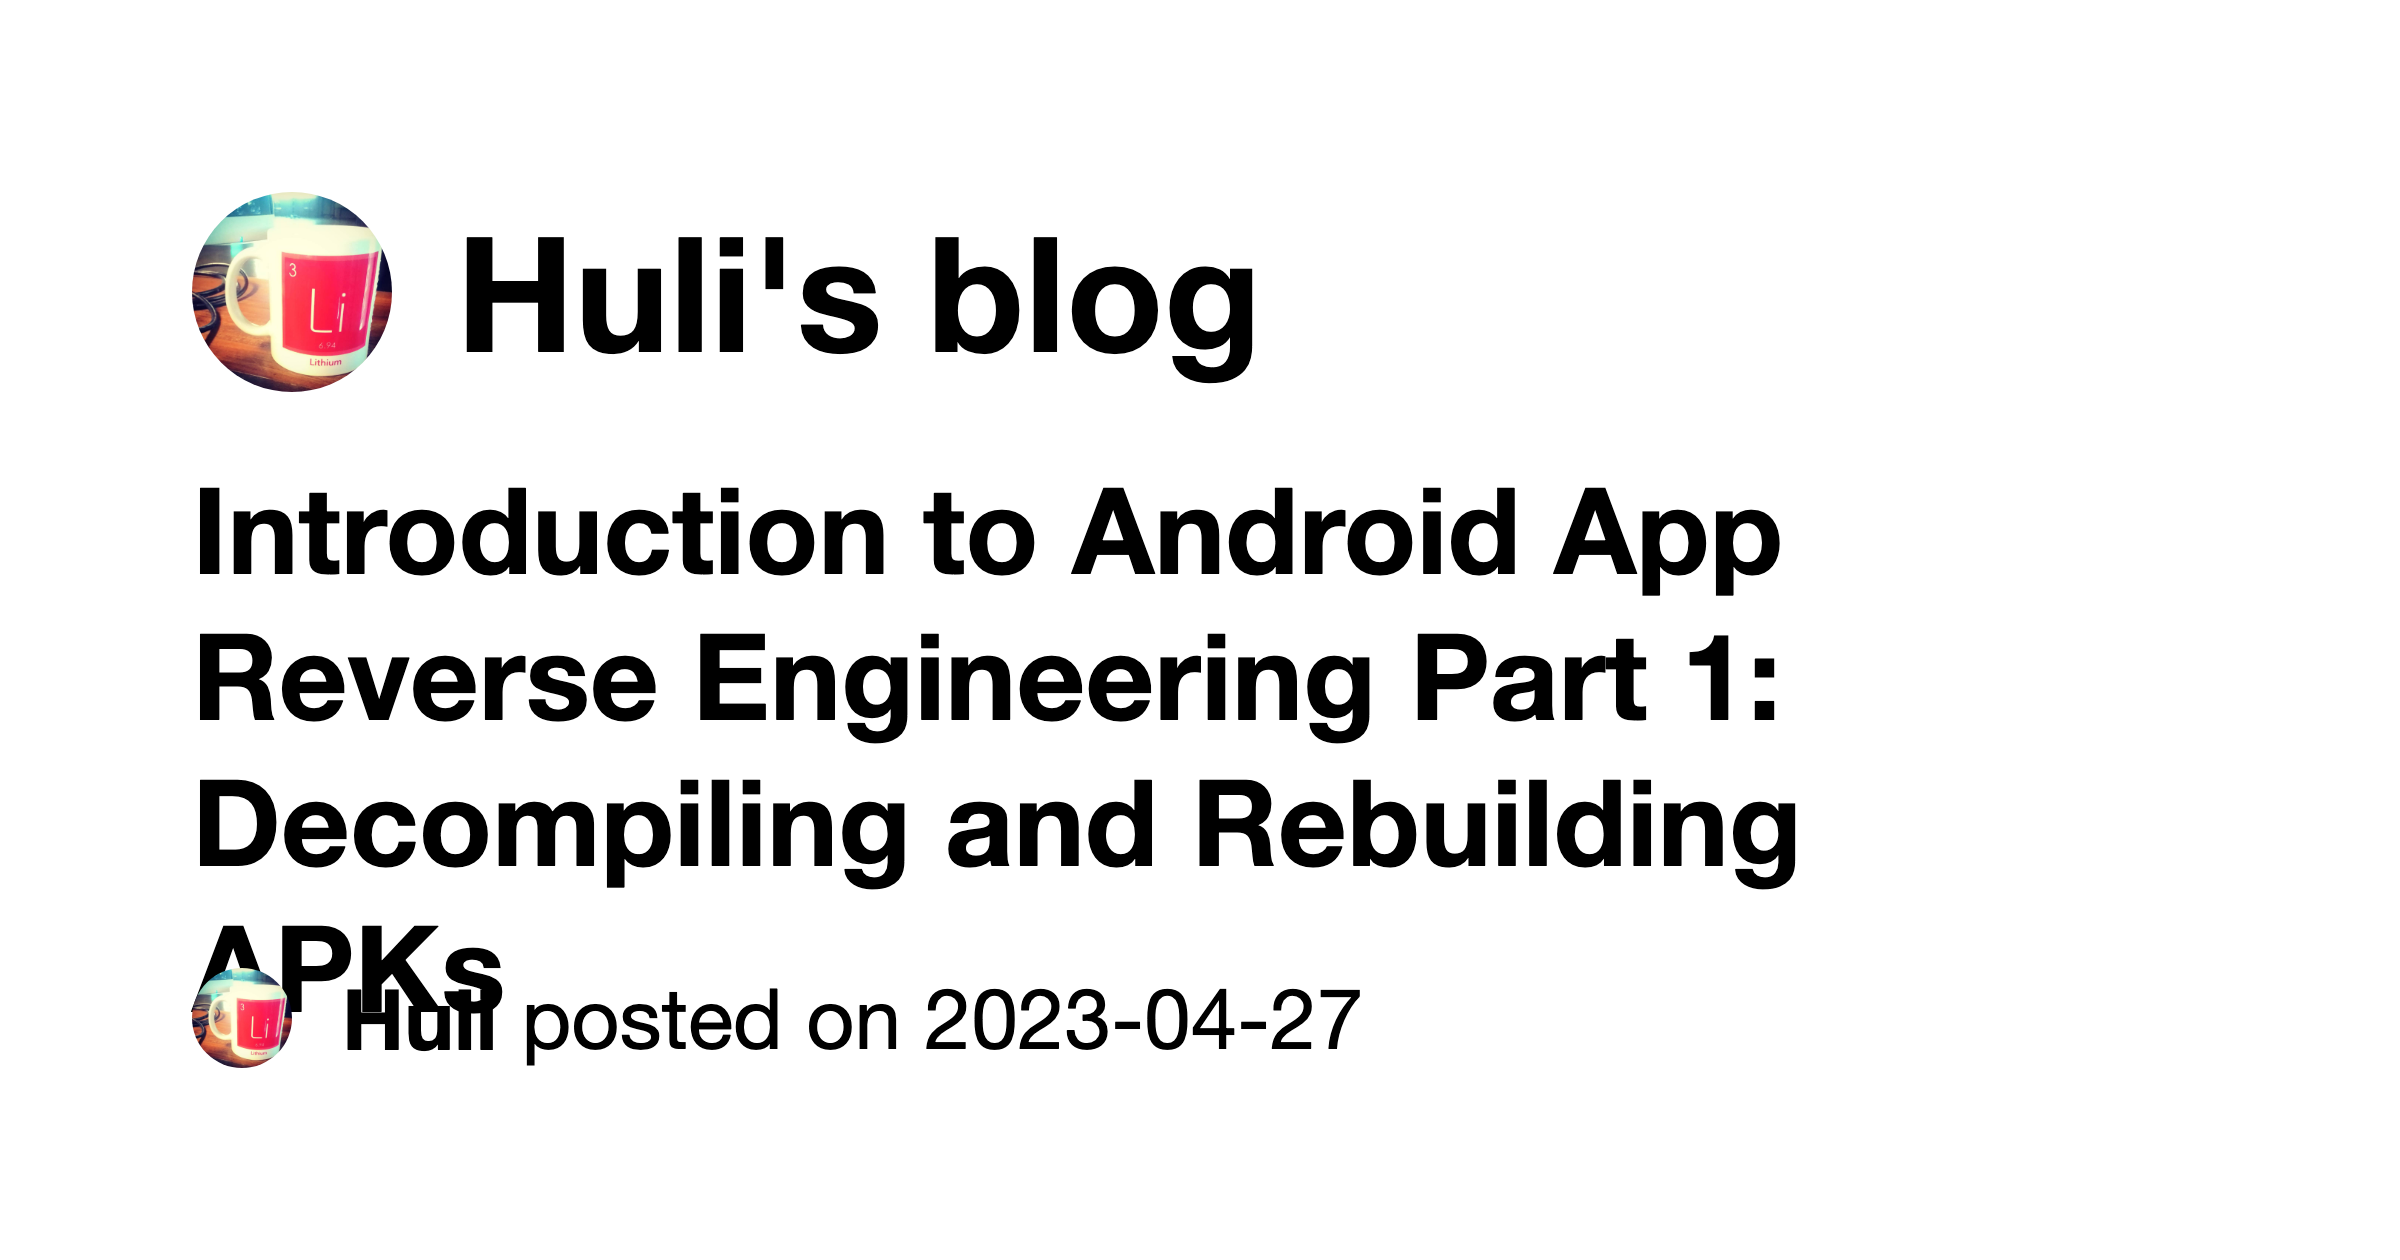
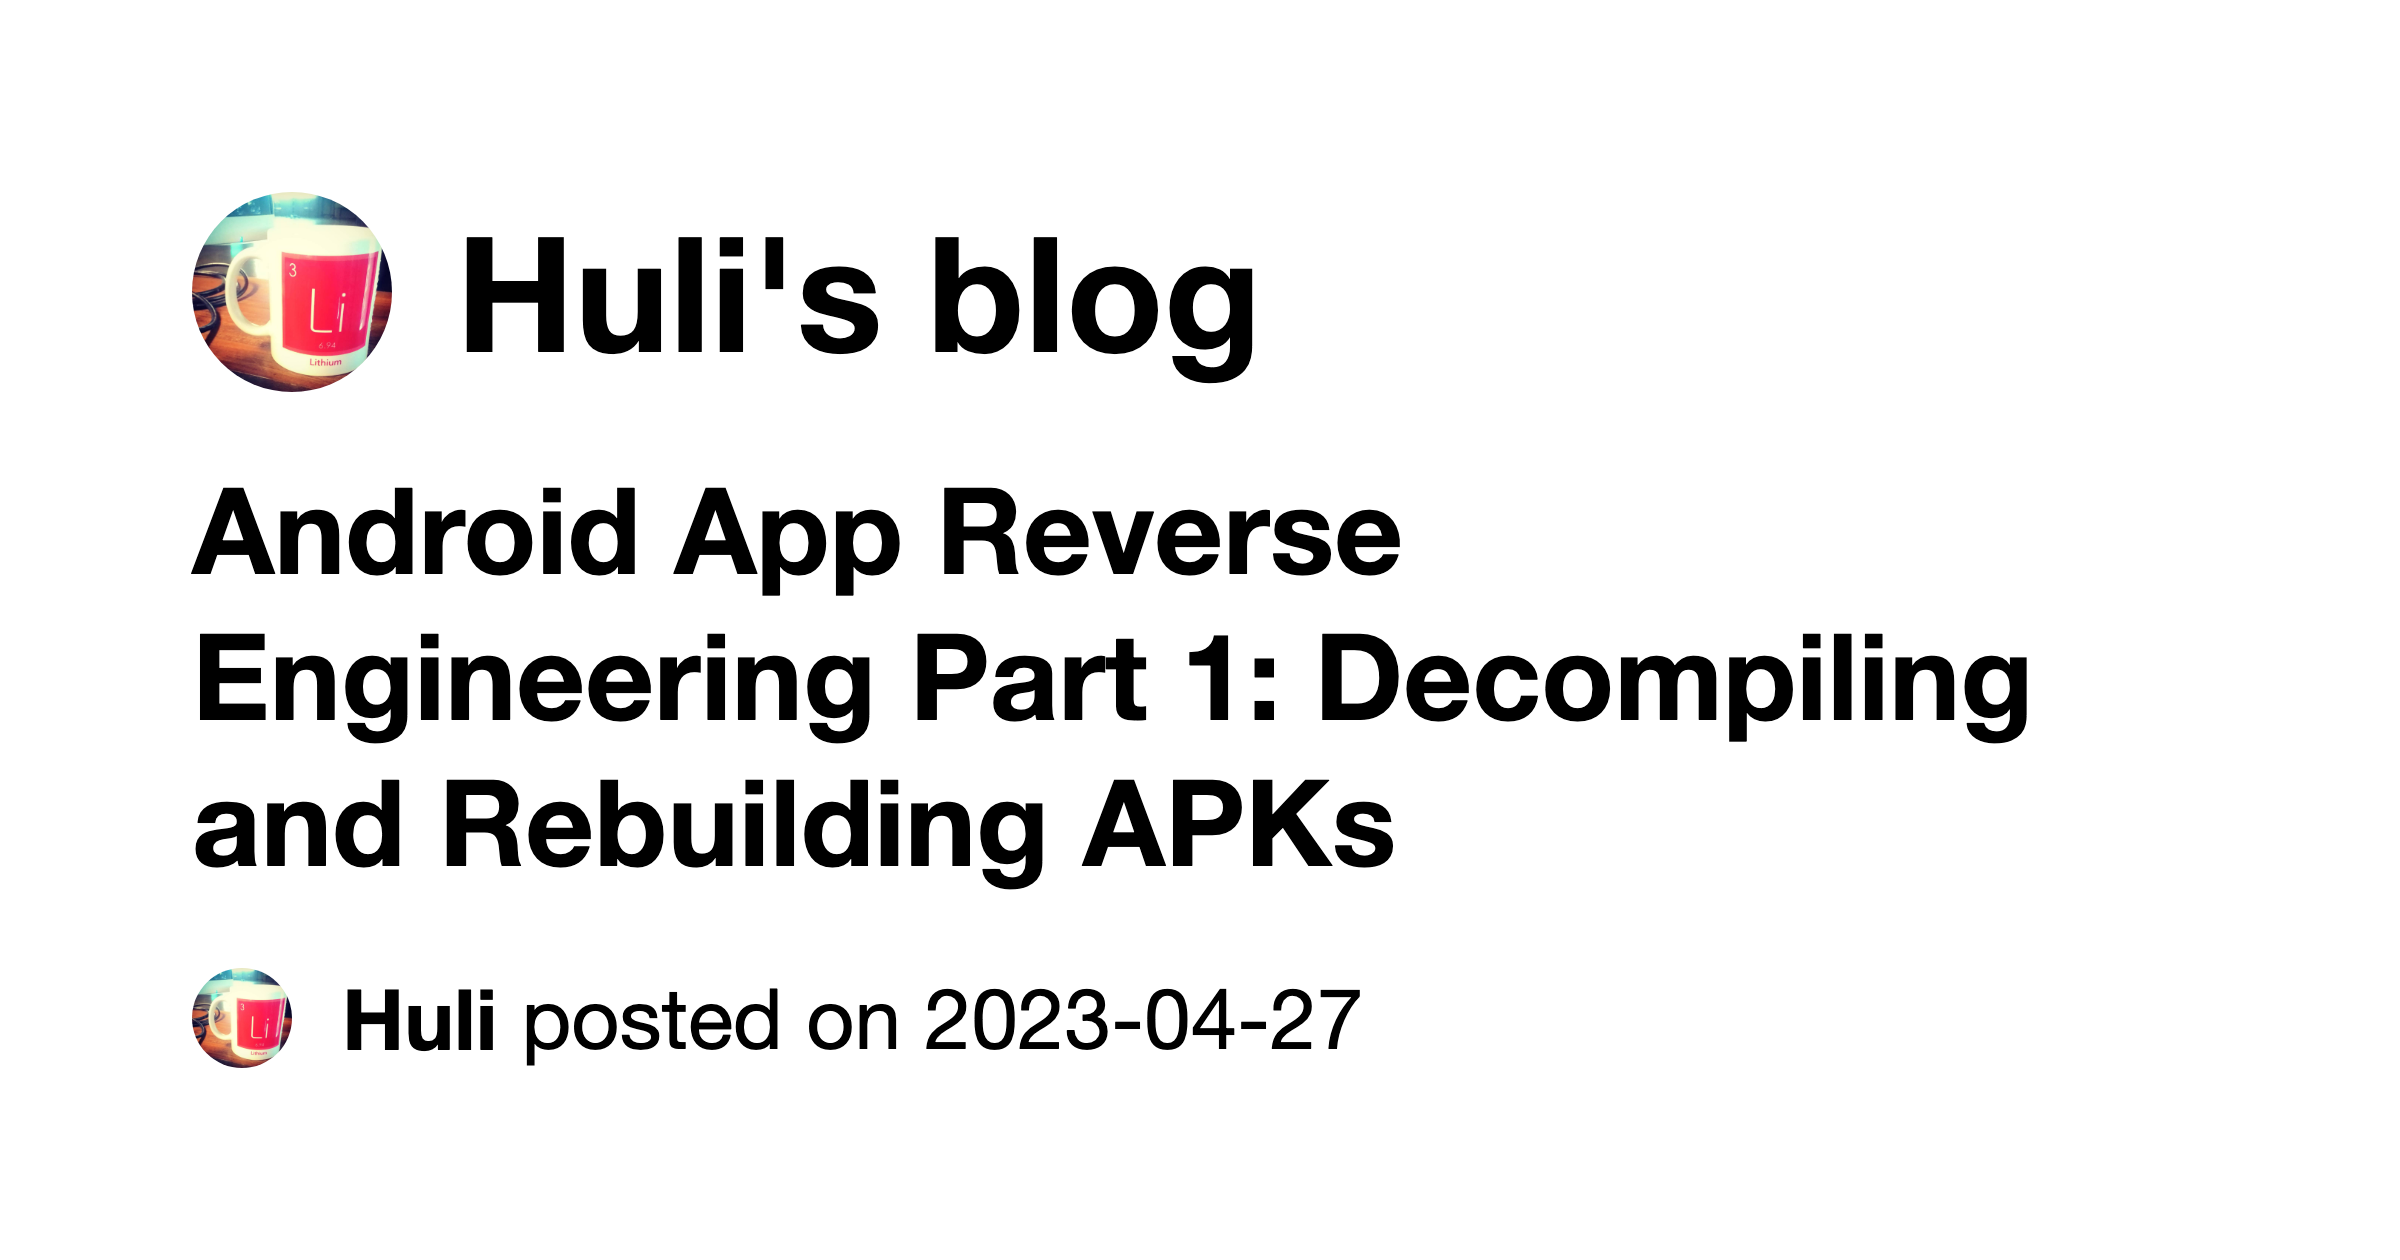
update android cover

Changed region(s): [[0.0625, 0.619, 0.75, 0.8048], [0.0938, 0.4952, 0.8438, 0.5881], [0.0625, 0.3714, 0.75, 0.4643]]

diff --git a/apps/og-image-generator/batch.js b/apps/og-image-generator/batch.js
@@ -37,8 +37,22 @@ async function main() {
       let postMeta = frontMatter(postContent)
       if (postMeta.attributes.photos) {
         if (postMeta.attributes.photos.includes('cover-en')) continue
-        console.log('fix:', coverPath)
-        
+        console.log('Need to fix:', coverPath)
+      } else {
+        // automatically add photos
+        const photoString = 'photos: ' + coverPath
+        let lines = postContent.split('\n')
+        let result = [lines[0]]
+        let found = false
+        for(let i=1; i<= lines.length; i++) {
+          if (lines[i].startsWith('---') && !found) {
+            found = true
+            result.push(photoString)
+          } 
+          result.push(lines[i])
+        }
+
+        fs.writeFileSync(postPath, result.join('\n'), 'utf8')
       }
 
       continue

diff --git a/source/_posts/en/android-apk-decompile-intro-1.md b/source/_posts/en/android-apk-decompile-intro-1.md
@@ -1,5 +1,5 @@
 ---
-title: "Introduction to Android App Reverse Engineering Part 1: Decompiling and Rebuilding APKs"
+title: "Android App Reverse Engineering Part 1: Decompiling and Rebuilding APKs"
 catalog: true
 date: 2023-04-27 14:10:44
 tags: [Security]
